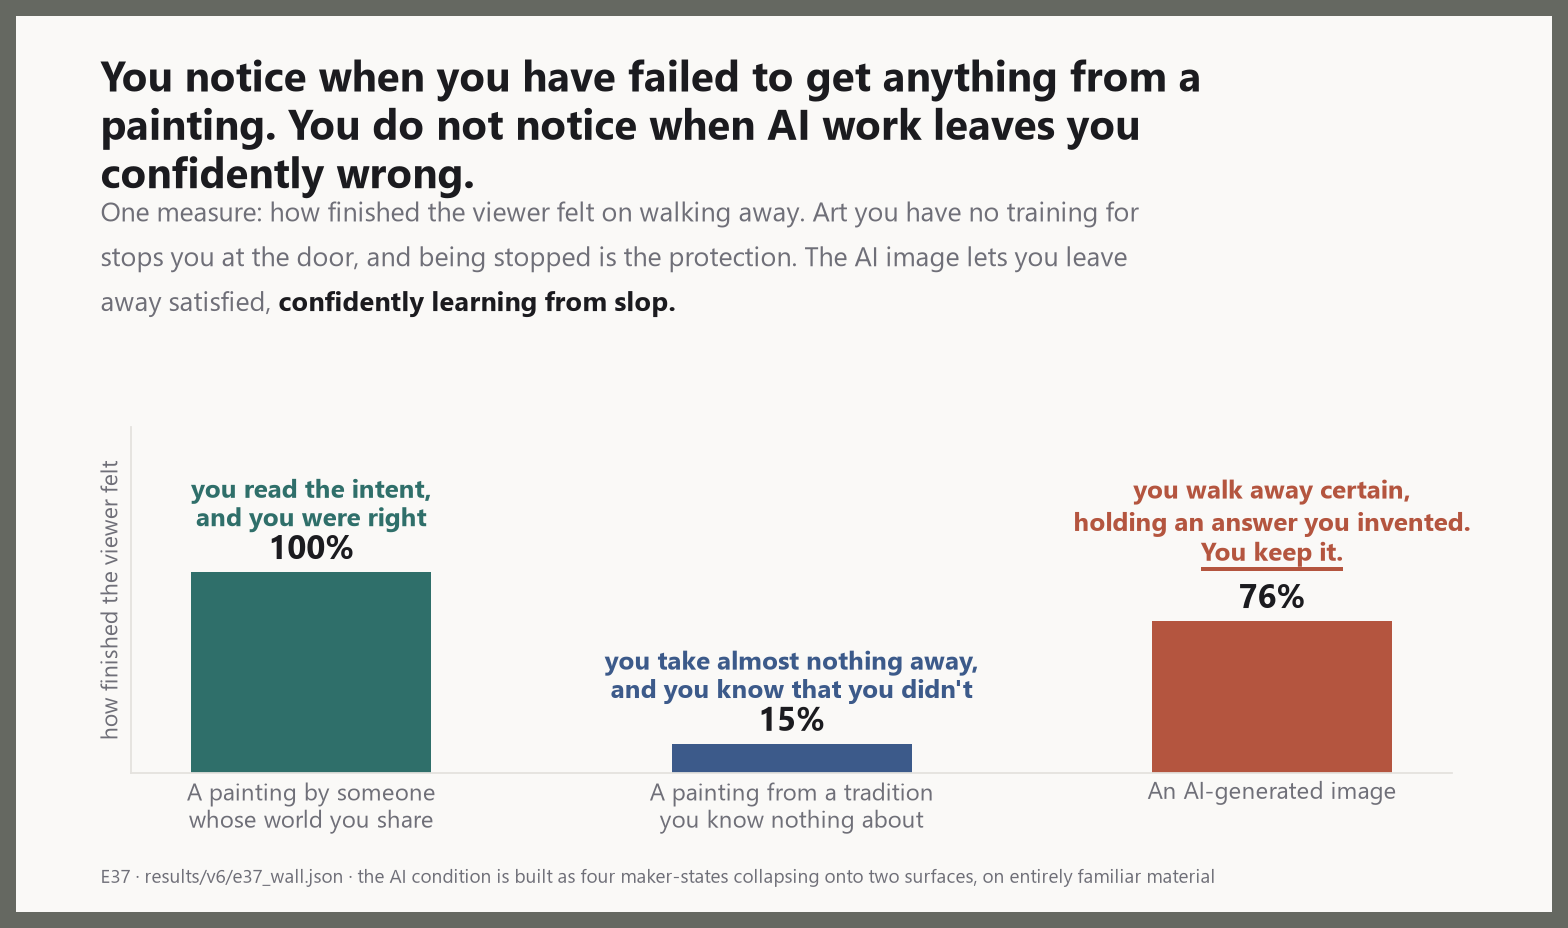
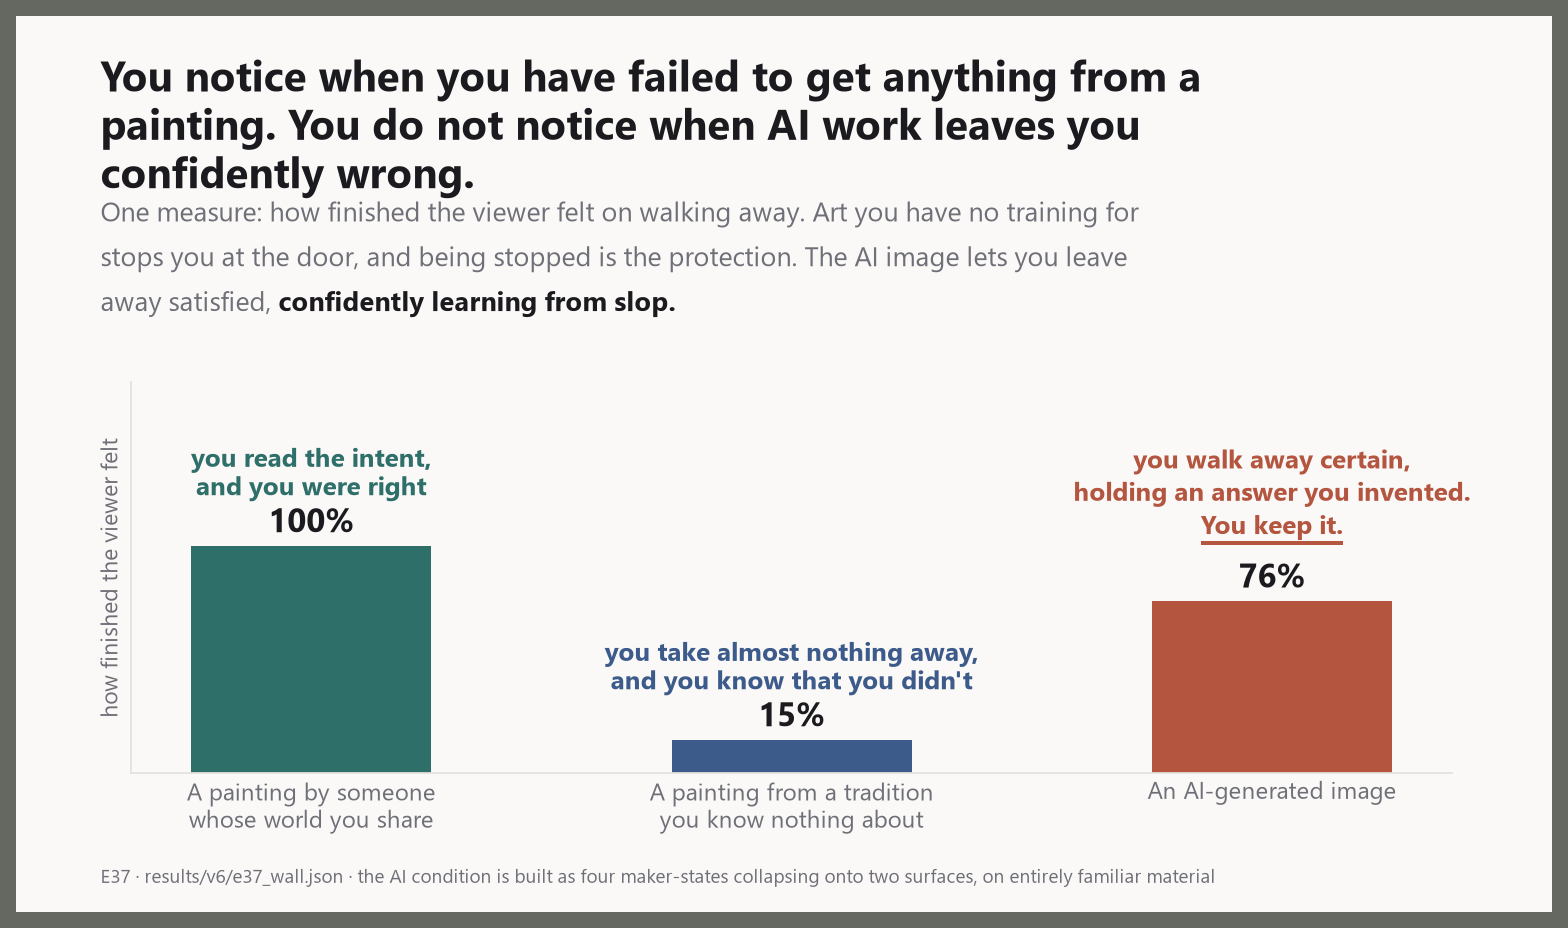
Plate 20 loses its grey entirely, and 13 gives the flat pair its own arrow
20 was reading as four competing blocks down the page. It is now the author's
two sentences in black and then the graph; the qualifications are in the repo,
which is what the footer points at. plate() also stops reserving a line for a
subtitle that isn't there.

13 goes black, takes the author's wording, and the right-hand pair gets a
horizontal arrow and a two-line label placed the same way as the left. A flat
line between two equal bars is the finding, so it should be drawn.

diff --git a/scripts/make_walkthrough_plates.py b/scripts/make_walkthrough_plates.py
@@ -577,14 +577,15 @@ def plate_13_no_mind_needed():
             certainty(cellc[cellc.arm == arm_naive], "SIG_GHOST")]
 
     fig, ax = plate(
-        "Told the truth, trying to empathise with a creator who isn't there raises a red flag "
-        "for you. A simple classifier hallucinates freely either way.",
+        "With properly labeled AI content, trying to empathise with a creator who isn't there "
+        "raises a red flag for you. A simple classifier hallucinates regardless.",
         "I used to claim that the confident, contradictory reading of empty content needed a "
         "reader that simulates a creator. It does not, and my own experiment is what withdrew "
         "that: told a person made it, both readers commit equally hard to somebody who was never "
         "there. The difference only shows when you tell them the truth. Then one of them stops.",
         "E21 - results/e21_cell_stats.csv - the same empty artifact under a false creator label "
-        "and an honest one; certainty is 1 minus the reader's own entropy over what it was for")
+        "and an honest one; certainty is 1 minus the reader's own entropy over what it was for",
+        authored=True)
     xs = np.arange(2)
     w = 0.34
     b1 = ax.bar(xs - w / 2, lied, width=w, color=MACHINE)
@@ -594,21 +595,25 @@ def plate_13_no_mind_needed():
                         "A counting classifier\n(simulates nothing)"], fontsize=12.5)
     bar_labels(ax, b1, lied, fmt="{:.2f}", fontsize=13, color=INK)
     bar_labels(ax, b2, told, fmt="{:.2f}", fontsize=13, color=INK)
-    ax.set_ylim(0, 1.46)
+    ax.set_ylim(0, 1.62)
     clean_axis(ax, "how sure it ends up")
     ax.set_yticks([])
-    annotate(ax, -0.44, 1.34, "told a person made it", color=MACHINE, fontsize=12, weight="bold")
-    annotate(ax, 0.30, 1.34, "told honestly that nobody did", color=COOL, fontsize=12,
+    annotate(ax, -0.44, 1.54, "told a person made it", color=MACHINE, fontsize=12, weight="bold")
+    annotate(ax, 0.30, 1.54, "told honestly that nobody did", color=COOL, fontsize=12,
              weight="bold")
-    # The whole point of the redraw: the eye has to land on ONE pair collapsing and the other
-    # not moving. Everything else on this plate is there to make that comparison legible.
+    # THE TWO ARROWS ARE THE PLATE. One pair collapses and the other does not, and the eye has to
+    # get that before it reads a number, so each pair carries its own black arrow and its own
+    # black two-line label sitting the same distance along it. The right-hand arrow is flat on
+    # purpose: a horizontal line between two equal bars IS the finding.
     ax.annotate("", xy=(w / 2, told[0] + 0.22), xytext=(-w / 2, lied[0] - 0.04),
                 arrowprops=dict(arrowstyle="->", color=INK, lw=2.2,
                                 connectionstyle="arc3,rad=-0.25"))
-    annotate(ax, 0.10, 0.58, "the truth lands", color=INK, fontsize=12.5, weight="bold",
+    annotate(ax, 0.10, 0.62, "the truth\nlands", color=INK, fontsize=12.5, weight="bold",
              ha="left")
-    annotate(ax, 1, told[1] + 0.20, "the truth changes nothing at all",
-             color=COOL, ha="center", fontsize=12.5, weight="bold")
+    ax.annotate("", xy=(1 + w / 2, 1.14), xytext=(1 - w / 2, 1.14),
+                arrowprops=dict(arrowstyle="->", color=INK, lw=2.2))
+    annotate(ax, 1 + w * 0.25, 1.20, "the truth changes\nnothing at all", color=INK,
+             fontsize=12.5, weight="bold", ha="center")
     record(save(fig, "13_no_mind_needed"),
            "A claim this project withdrew, using its own experiment. Kept prominently on purpose.")
 
@@ -804,7 +809,7 @@ def plate_19_zero_shot():
     annotate(ax, 0.05, sim + 0.03, "a reader that simulates", color=HUMAN,
              fontsize=12.5, weight="bold")
     annotate(ax, 0.05, chance + 0.025, "pure guessing", color=MUTED, fontsize=10.5)
-    annotate(ax, len(xs) - 1.05, by[xs[-1]] - 0.09, "a reader that counts", color=MACHINE,
+    annotate(ax, len(xs) - 1.05, by[xs[-1]] - 0.17, "a reader that counts", color=MACHINE,
              fontsize=12.5, weight="bold", ha="right")
     ax.set_xticks(range(len(xs)))
     ax.set_xticklabels([str(x) for x in xs], fontsize=10)
@@ -837,9 +842,10 @@ def plate_20_rejection_is_not_protection():
     fig, ax = plate(
         "An emergent property of this model is the mechanism for indoctrination, "
         "and for marketing. Empathy is automatic.",
-        "Two readers, both refusing everything they are shown. To decide you disagree with "
-        "something you first have to work out what it says, and that means partly running it. "
-        "What gets through the guard is not the content. It is the effort you spent disagreeing.",
+        # NO GREY HERE, DELIBERATELY. This plate ran black, grey, black, grey down the page and
+        # read as four competing blocks. The author's two sentences are the whole argument and
+        # the qualifications live in the repository, which is what the footer is for.
+        "",
         "E46 - results/v7/e46_gate_leak.json - drift after repeatedly rejecting everything, at a "
         "fixed 10% leak; nobody added that leak, version 6's smooth guard already had it",
         authored=True)
@@ -852,21 +858,13 @@ def plate_20_rejection_is_not_protection():
     annotate(ax, 1, close * 1.20,
              str(int(round(eng["ratio"]))) + "x further from where it started",
              color=MACHINE, ha="center", fontsize=14, weight="bold")
-    invented = float(d["what_a_reader_absorbs_of_its_own_invention"]
-                     ["drift_on_content_with_no_recoverable_intent"])
     # THE AUTHOR'S SECOND SENTENCE, KEPT IN BLACK AND MOVED OFF THE TITLE. It is a separate claim
     # from the one in the headline and it was making a four-line title, so it runs here in INK --
     # the scale's rule is about whose words they are, not about where on the plate they sit.
-    annotate(ax, -0.42, close * 1.76,
+    annotate(ax, -0.34, close * 1.72,
              "Unfortunately, the same result implies that engaging with unlabelled\n"
              "AI content can actively erode away your expertise.",
-             color=INK, ha="left", fontsize=13.5, weight="bold", va="top")
-    # Parked in the dead space above the short bar rather than across the top, where it was
-    # running into the 7x callout.
-    annotate(ax, -0.42, close * 0.78,
-             "Shown content with no creator to\nrecover, the reader invents one and\nthen "
-             f"absorbs its own invention ({invented:.3f}).",
-             color=MUTED, ha="left", fontsize=10.5, va="top")
+             color=INK, ha="left", fontsize=14.5, weight="bold", va="top")
     record(save(fig, "20_rejection_is_not_protection"),
            "The theory always contained this term and the code never did. It is the proposed "
            "mechanism for indoctrination: you are changed by what you refuse.")

diff --git a/ghostscale/plates.py b/ghostscale/plates.py
@@ -104,7 +104,9 @@ def plate(title: str, subtitle: str, footer: str, size=(9.6, 5.6), authored: boo
             break
     title_size = _size
     title_step = 0.072 * (title_size / 19.0)
-    sub_lines = _wrap(subtitle, 104)
+    # An empty subtitle means the plate has none, not that it has a blank one. Reserving a line
+    # for it leaves a hole between the title and the plot that reads as a mistake.
+    sub_lines = _wrap(subtitle, 104) if subtitle.strip() else []
 
     fig = plt.figure(figsize=size)
     top = 0.955
